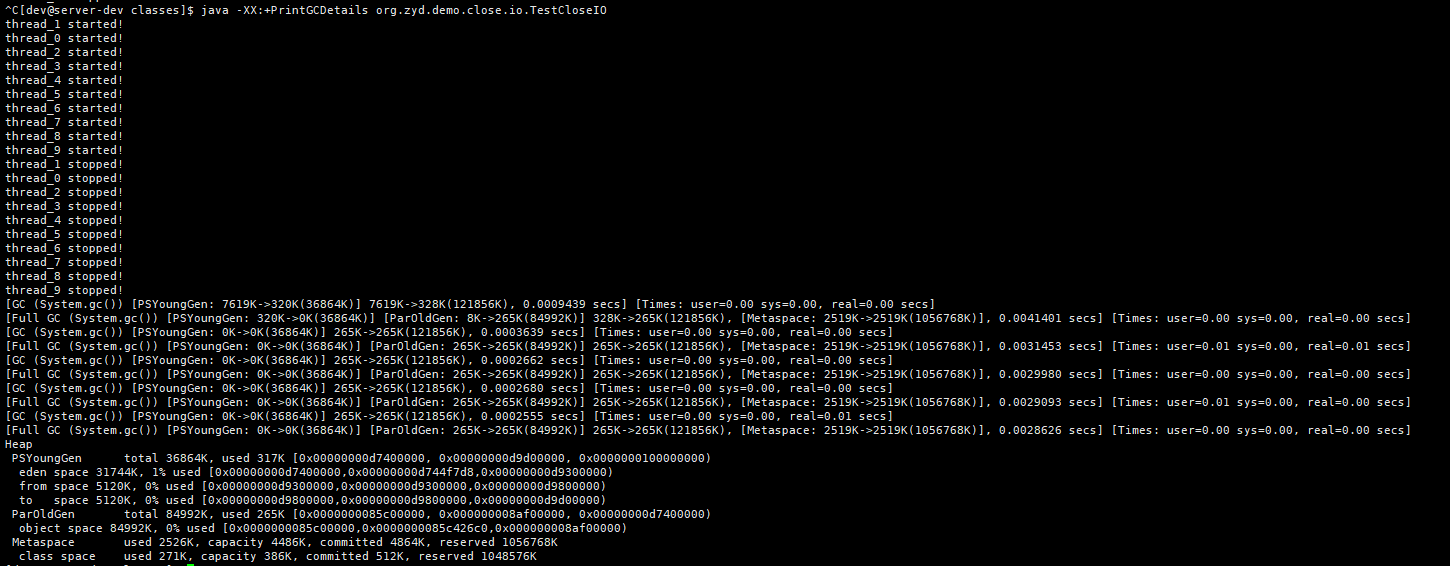
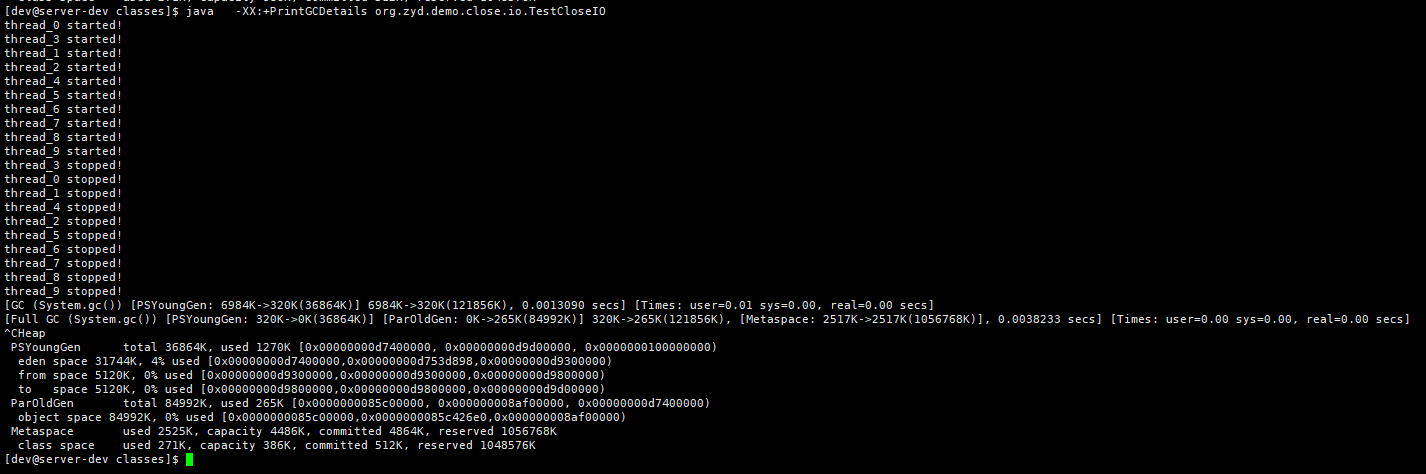
修改gc图片

Changed region(s): [[0.0, 0.0, 0.9874, 1.0]]

diff --git a/Demo/src/main/java/org/zyd/demo/close/io/TestCloseIO.java b/Demo/src/main/java/org/zyd/demo/close/io/TestCloseIO.java
@@ -24,10 +24,6 @@ public class TestCloseIO {
 		}
 		end.await();
 		System.gc();
-		System.gc();
-		System.gc();
-		System.gc();
-		System.gc();
 		Thread.sleep(10 * 60 * 1000);
 	}
 
